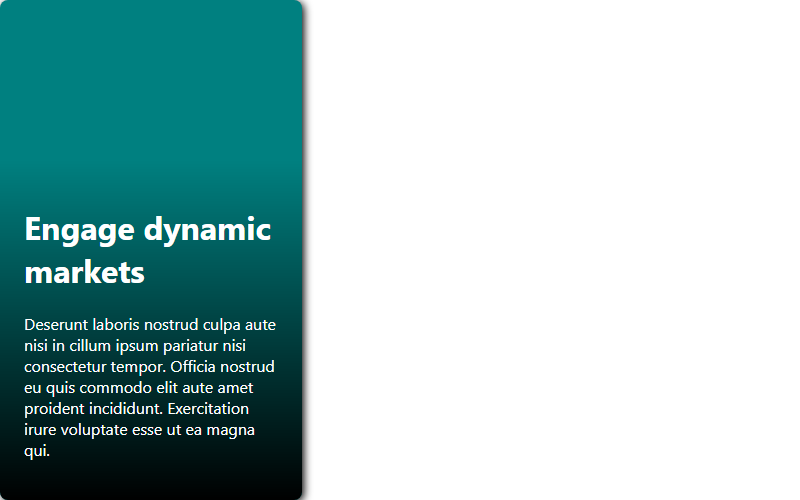
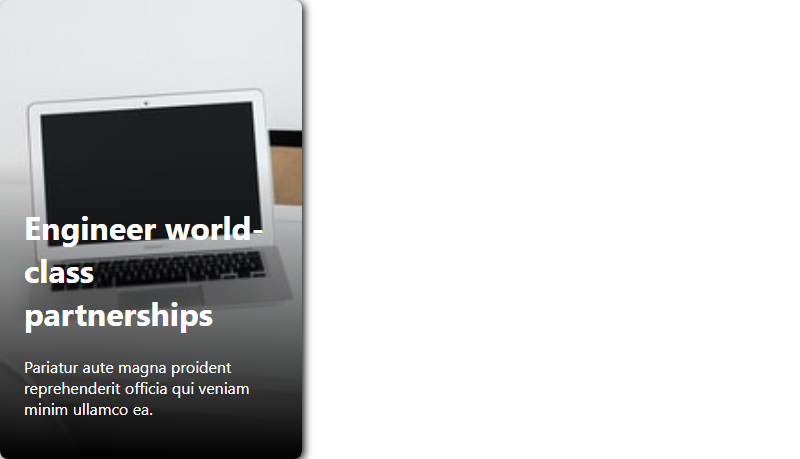
styled project page and completed setup. Added contact page and created ContactForm using netlify forms and SocialMedia component to display social media links

diff --git a/pages/projects.tsx b/pages/projects.tsx
@@ -3,31 +3,36 @@ import { createClient } from "../prismicio";
 import { SliceZone } from "@prismicio/react";
 import { PrismicDocument } from "@prismicio/types";
 import { components } from "../slices";
+import styles from '../styles/projects.module.css';
 
 export const getStaticProps: GetStaticProps = async ({ previewData }) => {
-    const client = createClient({ previewData });
-    const projectCards = await client
-      .getAllByType("ProjectCard")
-      .catch((error) => console.error(error));
-    return {
-      props: {
-        projectCards,
-      },
-    };
+  const client = createClient({ previewData });
+  const projectCards = await client
+    .getAllByType("ProjectCard")
+    .catch((error) => console.error(error));
+  return {
+    props: {
+      projectCards,
+    },
   };
+};
 
-  interface ProjectProps {
-      projectCards: PrismicDocument[];
-  }
+interface ProjectProps {
+  projectCards: PrismicDocument[];
+}
 
 const projects: NextPage<ProjectProps> = (props) => {
-    const { projectCards } = props;
-    return (
-        <section>
-            <h1>My full range of work</h1>
-            <SliceZone slices={projectCards[0].data.slices} components={components} />
-        </section>
-    )
+  const { projectCards } = props;
+  return (
+    <section className={styles.projectPageSection}>
+      <div className={styles.titleDiv}>
+        <h2>My full range of work</h2>
+      </div>
+      <div className={styles.projectFlexWrapper}>
+        <SliceZone slices={projectCards[0].data.slices} components={components} />
+      </div>
+    </section>
+  )
 }
 
 export default projects;

diff --git a/.slicemachine/assets/slices/ProjectCard/index.stories.js b/.slicemachine/assets/slices/ProjectCard/index.stories.js
@@ -5,5 +5,5 @@ export default {
 }
 
 
-export const _DefaultSlice = () => <MyComponent slice={{"variation":"default-slice","name":"Default slice","slice_type":"project_card","items":[],"primary":{"title":[{"type":"heading1","text":"Engage dynamic markets","spans":[]}],"projectCardDescription":[{"type":"paragraph","text":"Deserunt laboris nostrud culpa aute nisi in cillum ipsum pariatur nisi consectetur tempor. Officia nostrud eu quis commodo elit aute amet proident incididunt. Exercitation irure voluptate esse ut ea magna qui.","spans":[]}],"projectImage":{"dimensions":{"width":250,"height":250},"alt":"Placeholder image","copyright":null,"url":"https://images.unsplash.com/photo-1541807084-5c52b6b3adef?w=250&h=250&fit=crop"},"project":{"link_type":"Web","url":"http://google.com"}},"id":"_DefaultSlice"}} />
+export const _DefaultSlice = () => <MyComponent slice={{"variation":"default-slice","name":"Default slice","slice_type":"project_card","items":[],"primary":{"title":[{"type":"heading1","text":"Engineer world-class partnerships","spans":[]}],"projectCardDescription":[{"type":"paragraph","text":"Pariatur aute magna proident reprehenderit officia qui veniam minim ullamco ea.","spans":[]}],"projectImage":{"dimensions":{"width":250,"height":250},"alt":"Placeholder image","copyright":null,"url":"https://images.unsplash.com/photo-1504198070170-4ca53bb1c1fa?w=250&h=250&fit=crop"},"project":{"link_type":"Web","url":"https://slicemachine.dev"},"HighlightedProject":false},"id":"_DefaultSlice"}} />
 _DefaultSlice.storyName = 'Default slice'

diff --git a/components/ContactForm.tsx b/components/ContactForm.tsx
@@ -1,0 +1,23 @@
+import { FC } from "react";
+
+const ContactForm: FC = () => {
+    return (
+        <form name="contact" method="POST" data-netlify="true" data-netlify-recaptcha="true">
+            <p>
+                <label>Your Name: <input type="text" name="name" /></label>
+            </p>
+            <p>
+                <label>Your Email: <input type="email" name="email" /></label>
+            </p>
+            <p>
+                <label>Message: <textarea name="message" /></label>
+            </p>
+            <div data-netlify-recaptcha="true"></div>
+            <p>
+                <button type="submit">Send</button>
+            </p>
+        </form>
+    )
+}
+
+export default ContactForm;

diff --git a/components/SocialMedia.tsx b/components/SocialMedia.tsx
@@ -1,0 +1,24 @@
+import { FC } from "react";
+
+const SocialMedia: FC = () => {
+    return (
+        <section>
+            <h2>Connect with me here:</h2>
+            <div>
+                <ul>
+                    <li>
+                        Twitter
+                    </li>
+                    <li>
+                        Polywork
+                    </li>
+                    <li>
+                        Github
+                    </li>
+                </ul>
+            </div>
+        </section>
+    )
+}
+
+export default SocialMedia;

diff --git a/pages/contact.tsx b/pages/contact.tsx
@@ -1,0 +1,14 @@
+import { NextPage } from "next";
+import ContactForm from "../components/ContactForm";
+import SocialMedia from "../components/SocialMedia";
+
+const contact: NextPage = () => {
+    return (
+        <div>
+            <ContactForm />
+            <SocialMedia />
+        </div>
+    )
+}
+
+export default contact;

diff --git a/styles/projects.module.css b/styles/projects.module.css
@@ -1,0 +1,22 @@
+.projectPageSection {
+padding: 1rem 0;
+}
+
+.titleDiv {
+    background: #303030;
+    color: white;
+    border-radius: 0.5rem;
+    padding: 0.5rem;
+    margin-bottom: 1rem;
+    box-shadow: var(--bs);
+}
+
+.titleDiv h2 {
+    padding: 0;
+    margin: 0;
+}
+
+
+.projectFlexWrapper {
+    display: flex;
+}
